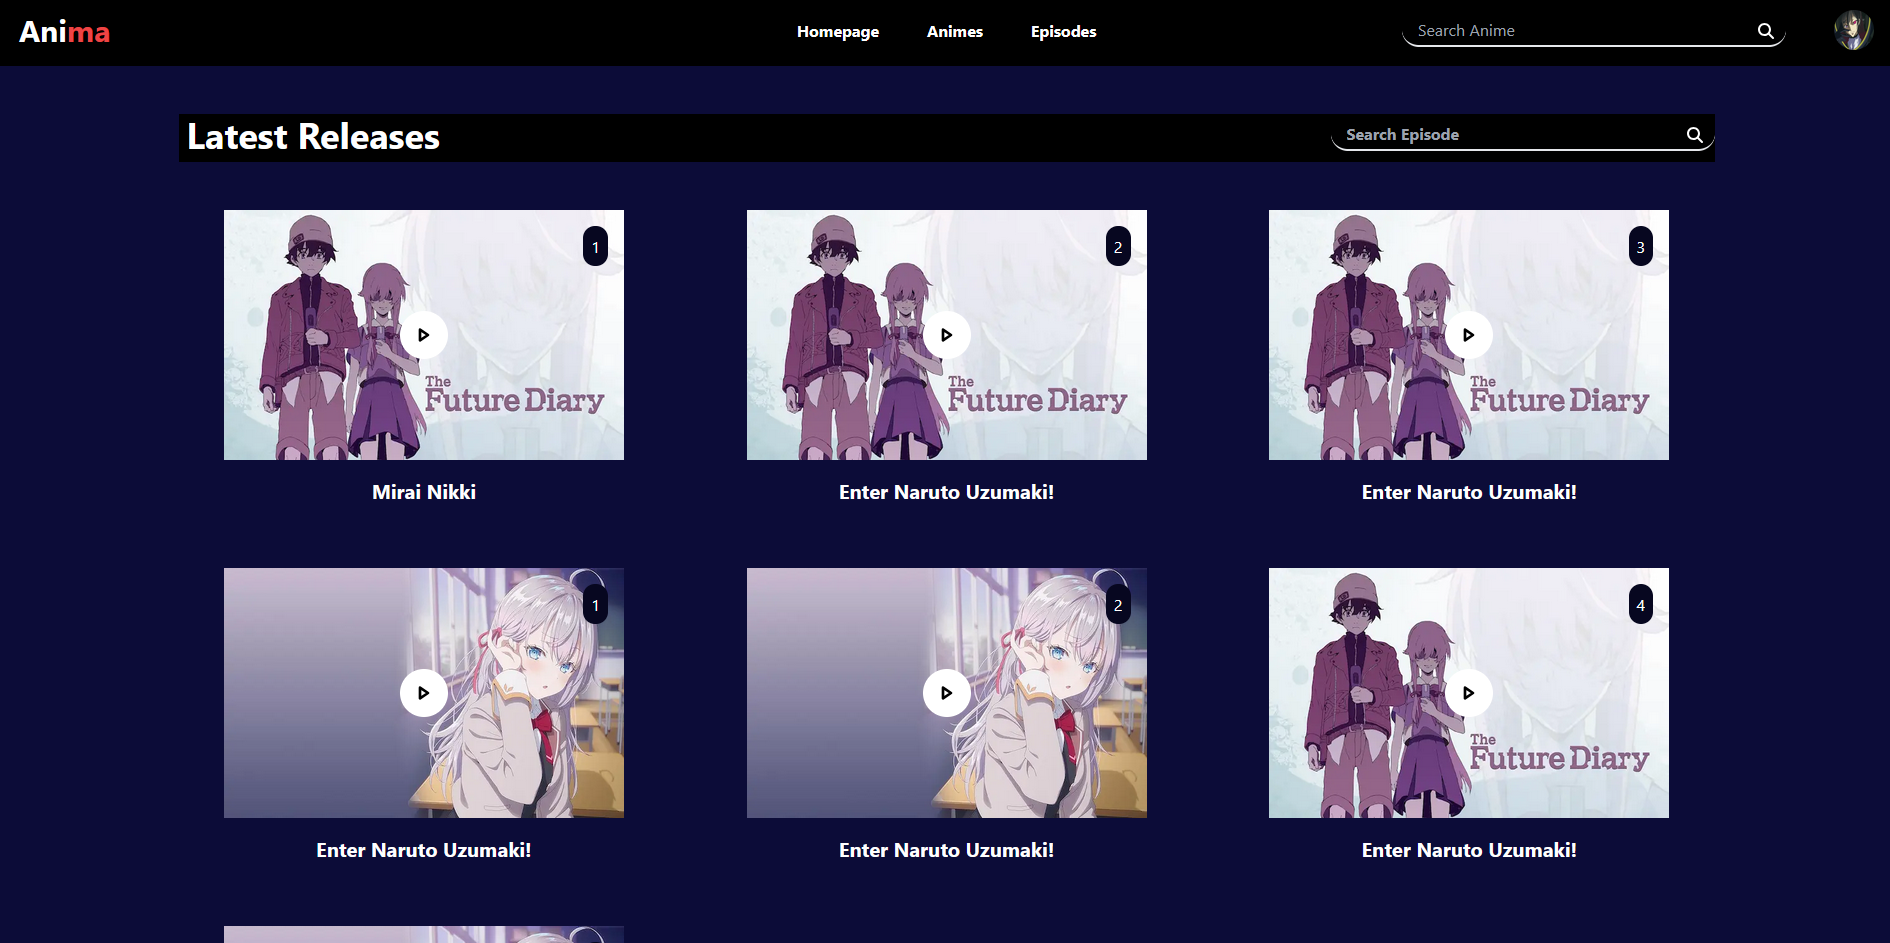
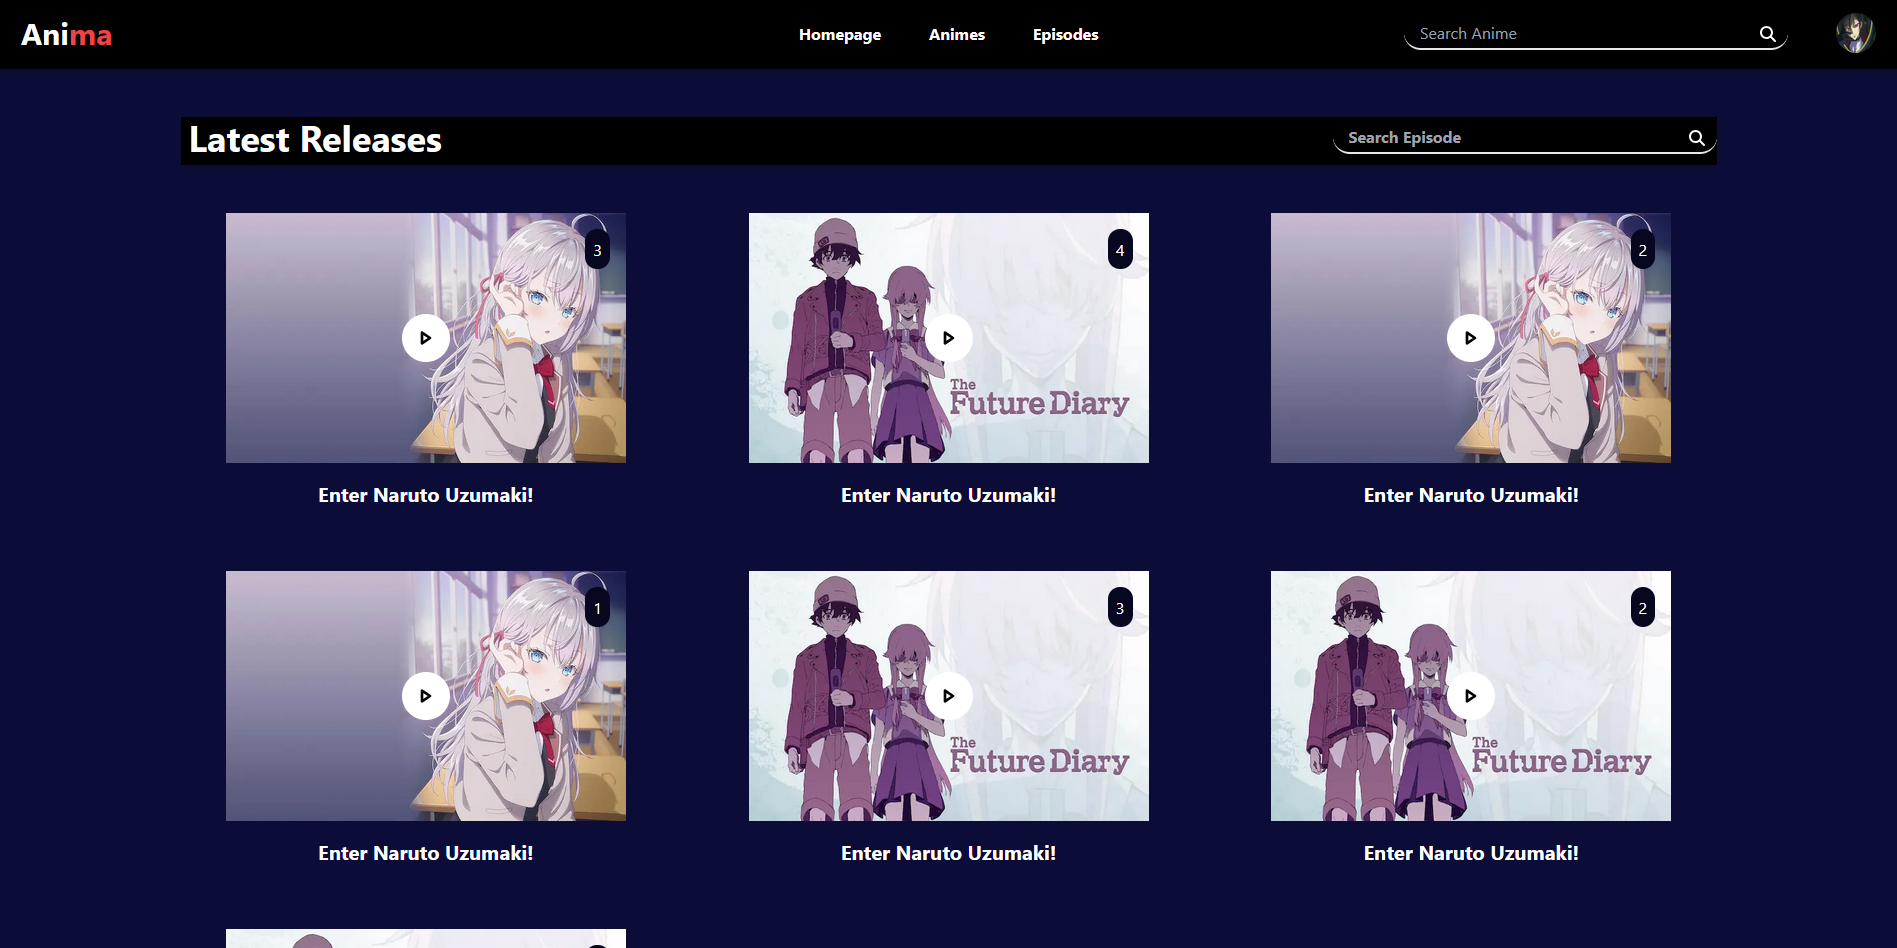
Reverse Episodes and Animes
added a little bit more time on the debounce still don't like it

diff --git a/src/components/Animes.tsx b/src/components/Animes.tsx
@@ -28,7 +28,11 @@ function Animes({ showFeature }: AnimesProps) {
         async function gettingAnimes() {
             try {
                 const data = await getAnimes();
-                setAnimes(data || []);
+                if (data) {
+                    setAnimes(data.reverse());
+                } else {
+                    setAnimes([]);
+                }
             } catch (error) {
                 console.error('Failed to fetch animes:', error);
             }
@@ -42,7 +46,9 @@ function Animes({ showFeature }: AnimesProps) {
       };
     
       
-    useDebouncedSearch(searchAnimeQuery, getSearchedAnimes, setAnimes, getAnimes, setResetPagination);
+    useDebouncedSearch(searchAnimeQuery, getSearchedAnimes, (fetchedEpisodes) => {
+        setAnimes([...fetchedEpisodes].reverse());
+    }, getAnimes, setResetPagination);
 
     const scroll = (direction: 'left' | 'right') => {
         setCurrentAnimeIndex((prevIndex) => {

diff --git a/src/components/Episodes.tsx b/src/components/Episodes.tsx
@@ -23,8 +23,11 @@ function Episodes() {
     useEffect(() => {
         async function gettingEpisodes() { 
             const data = await getEpisodes(); 
-            
-            setEpisodes(data || []);
+            if (data) {
+                setEpisodes(data.reverse());
+            } else {
+                setEpisodes([]);
+            }
         }
 
         gettingEpisodes(); 
@@ -36,7 +39,10 @@ function Episodes() {
       };
     
     {/* Debounce */}
-    useDebouncedSearch(searchEpisodeQuery, getSearchedEpisodes, setEpisodes, getEpisodes , setResetPagination);
+    useDebouncedSearch(searchEpisodeQuery, getSearchedEpisodes, (fetchedEpisodes) => {
+        setEpisodes([...fetchedEpisodes].reverse());
+    }, getEpisodes , setResetPagination);
+
 
     return (
         <>

diff --git a/src/app/hooks/useDebounceSearch.ts b/src/app/hooks/useDebounceSearch.ts
@@ -24,7 +24,7 @@ const useDebouncedSearch = (
                     setData(defaultData || []);
                     if (setResetPagination) setResetPagination(false); // Reset pagination flag if setResetPagination is not null
                 }
-            }, 300);
+            },1000);
 
             return () => clearTimeout(delayDebounceFn);
         }, [query, fetchFunction, setData, defaultDataFetch, setResetPagination]);
